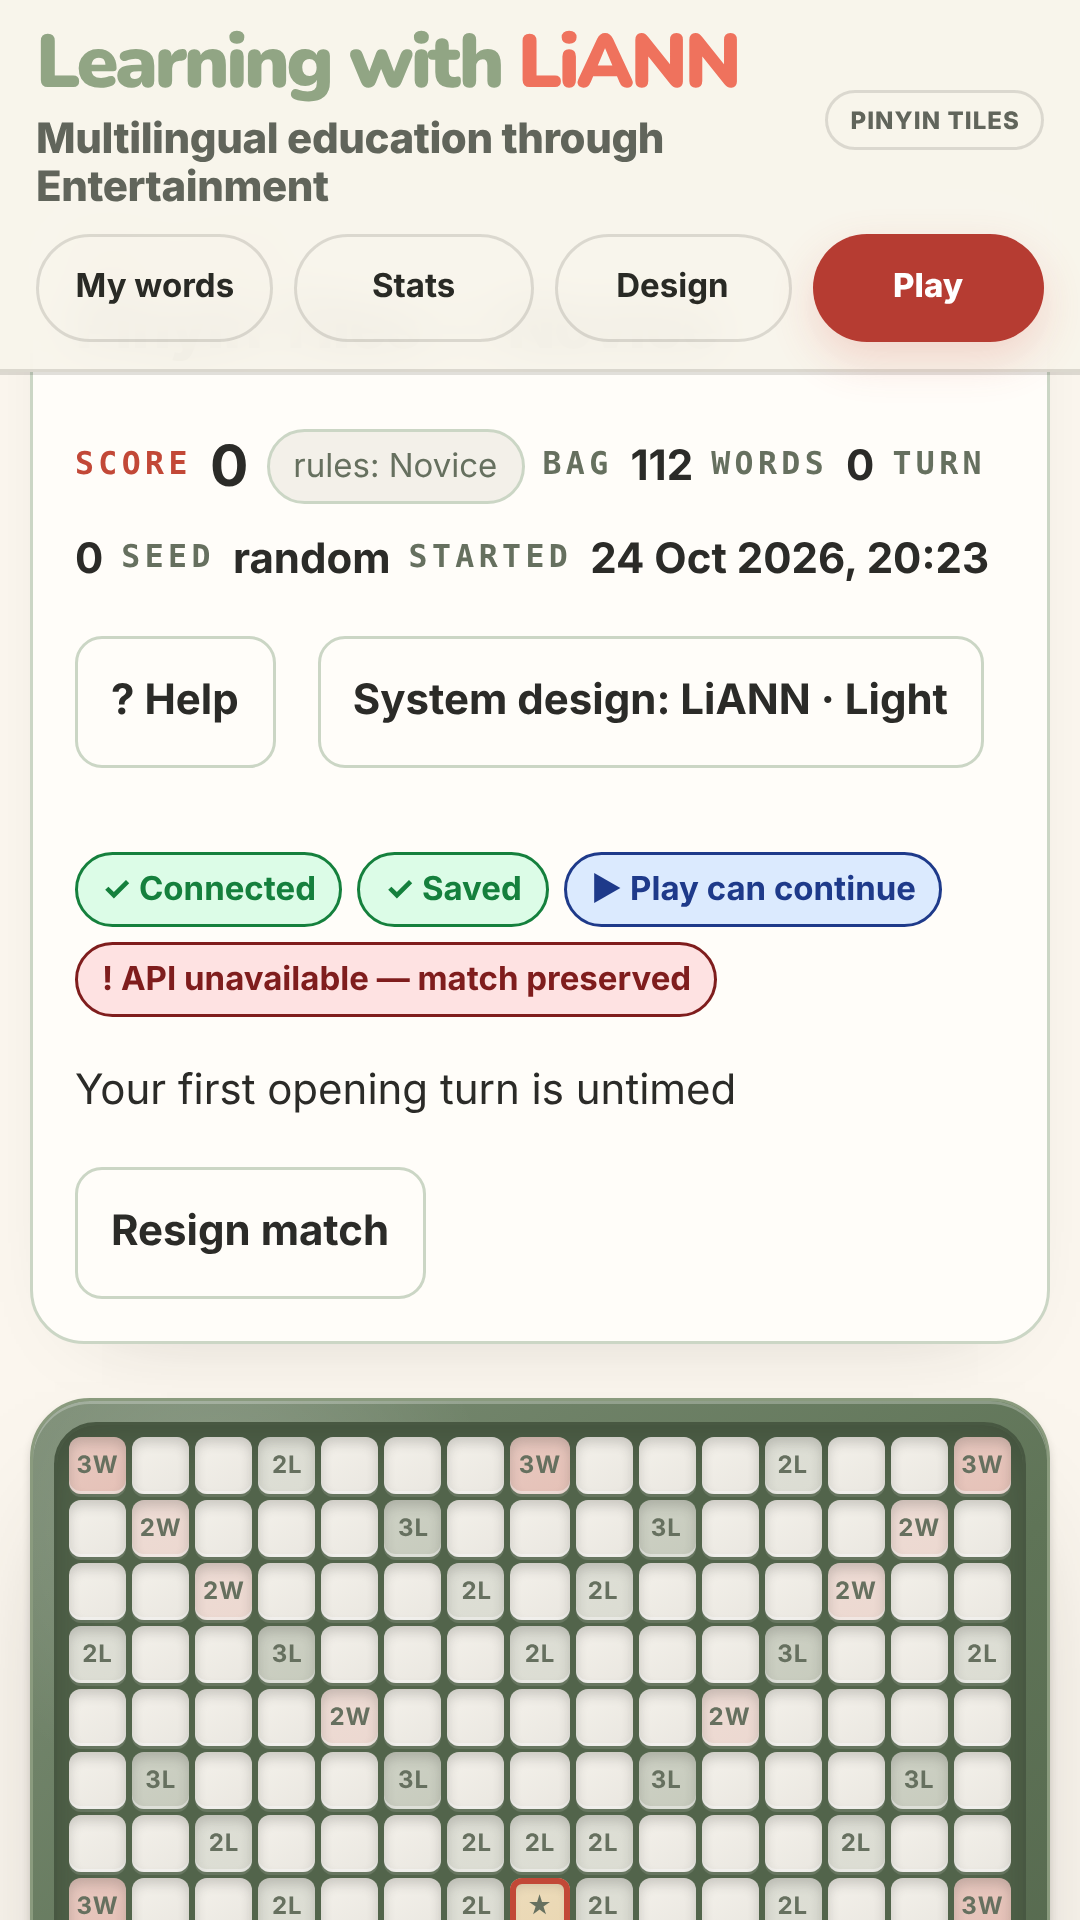
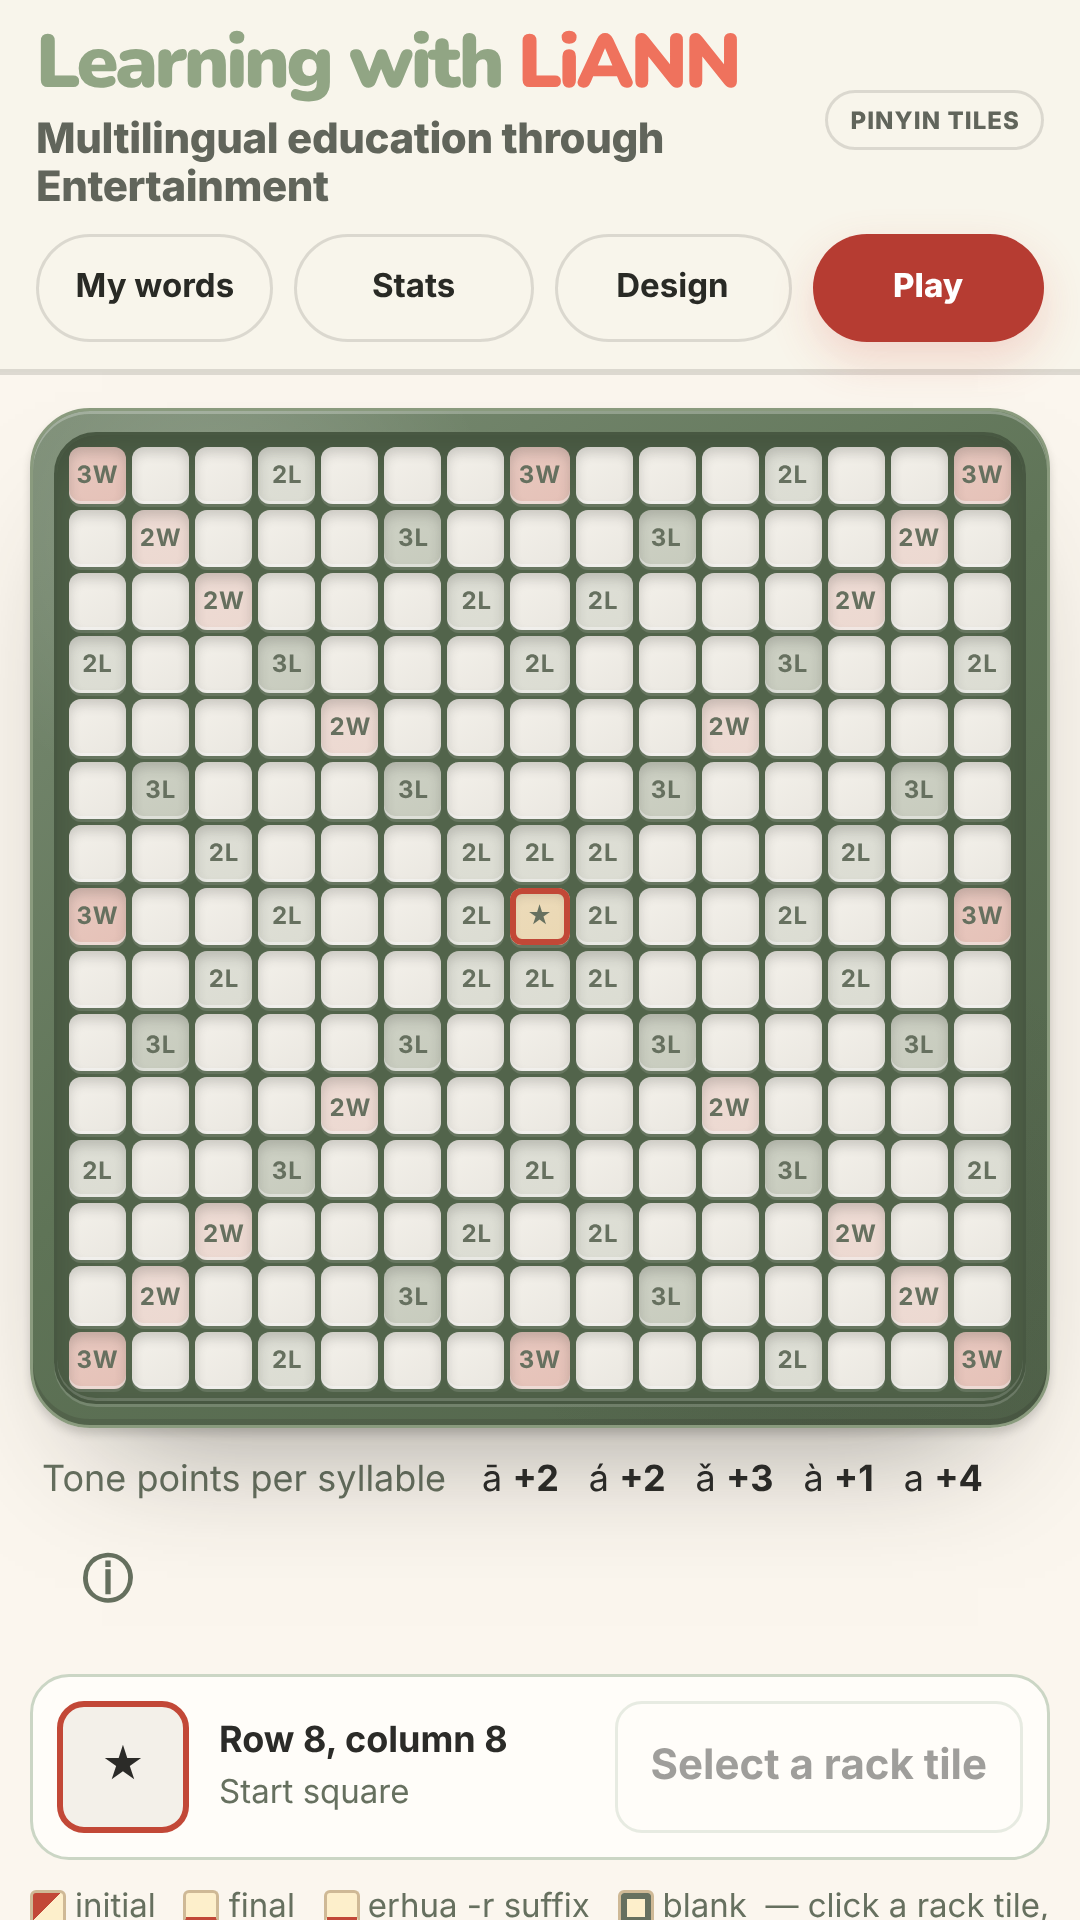
Store assets: Tiles and Puzzle phone boards captured with the board in frame
Claude-Session: https://claude.ai/code/session_01NjukgCKAVovMGJqPZbaXRx

diff --git a/scripts/store-assets/README.md b/scripts/store-assets/README.md
@@ -35,5 +35,8 @@ main (`public/game`, `public/puzzle`, `public/tones`). Phone captures are 1,080 
 432 × 768 or 360 × 640 viewport at 2.5× or 3×); desktop captures are 1,920 × 1,080.
 
 Retake them when the apps change. The Mahjong Tones captures are of the web edition; the Microsoft
-Store submission needs captures of the Windows build itself (see the kit). The Pinyin Tiles board
-capture was taken without the Pinyin API reachable, so the status chips are cropped out of frame.
+Store submission needs captures of the Windows build itself (see the kit). The Tiles and Puzzle
+phone board captures were taken without the Pinyin API reachable: the page header and the match
+status card are removed before the capture so the board fills the frame, and the Puzzle capture is
+an element screenshot of the crossword panel (`.board-column`), 1,032 × 3,252, which the frame
+crops from the top.
